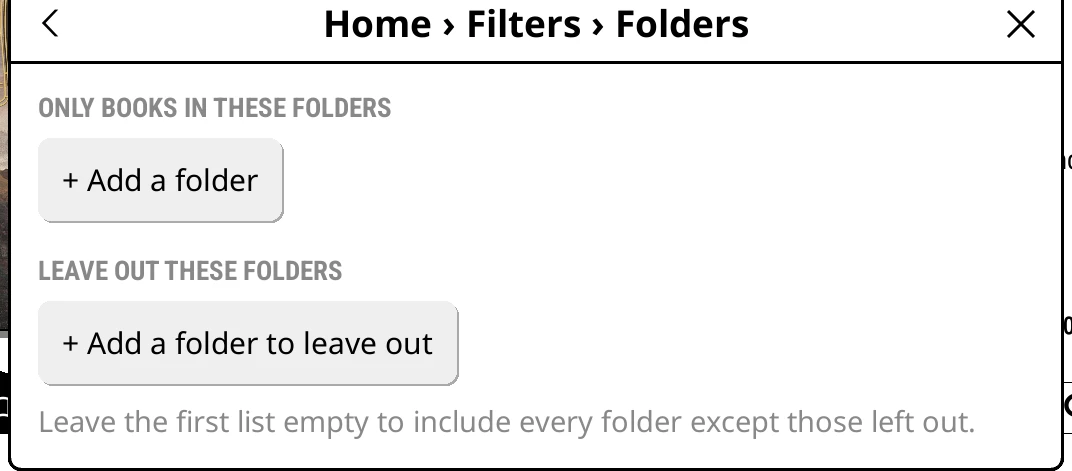
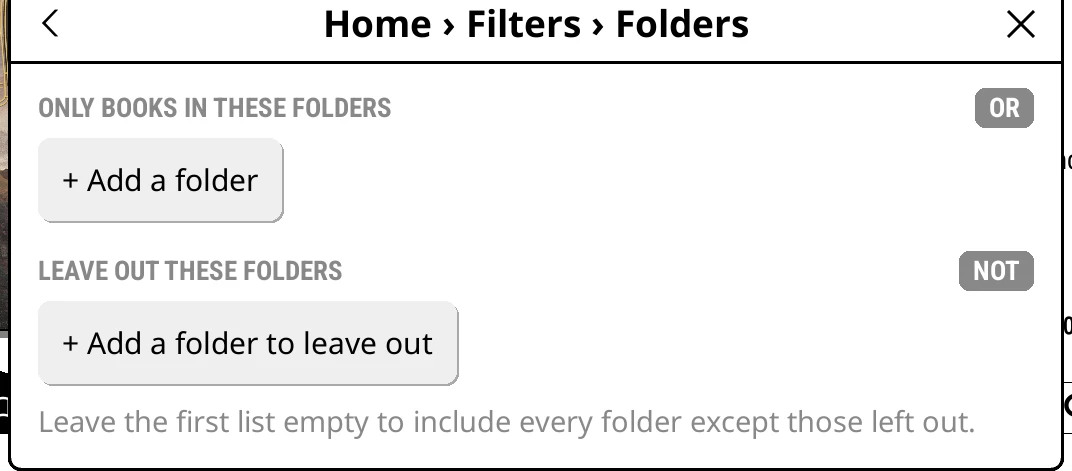
6.1: filter lists tagged OR, AND and NOT; picks as tags
Claude-Session: https://claude.ai/code/session_01JgJkg2kpmXwo4V6m4aKBga

Changed region(s): [[0.8927, 0.1783, 0.9851, 0.2972], [0.8927, 0.535, 0.9851, 0.6242]]

diff --git a/docs/reference/menus.md b/docs/reference/menus.md
@@ -715,16 +715,16 @@ Catalogue picker
 :   A page of choices to tick, any of which a book can match: **Unread**, **Reading**, **On hold**, **Finished** for Status; **5 stars** to **1 star**, or **Unrated**, for Rating; the values in your library for the others, searchable, with the **A-Z** / **Most books** switch. **Clear** on the strip unticks them all; **Apply** in the footer (or the back chevron) keeps them and goes back.
 
 **Genre**
-:   Three lists: **Any of these genres**, **All of these genres** and **Leave out these genres**, each with **+ Add genres**, which opens the same tick page for that list. A book needs one genre from the first list, every genre in the second and none from the third. An empty list is ignored.
+:   Three lists, tagged **OR**, **AND** and **NOT**: **Any of these genres**, **All of these genres** and **Leave out these genres**, each with **+ Add genres**, which opens the same tick page for that list. Picks show as tags; tap one to remove it. A book needs one genre from the first list, every genre in the second and none from the third. An empty list is ignored.
 
 **Collection**
-:   Two lists: **In any of these collections** and **Leave out these collections**, each with **+ Add collections**.
+:   Two lists, tagged **OR** and **NOT**: **In any of these collections** and **Leave out these collections**, each with **+ Add collections**. Picks show as tags; tap one to remove it.
 
 **Series**
 :   **Standalone and books in series**, **Only standalone books** or **Only books in series**.
 
 **Folders**
-:   **Only books in these folders** (**+ Add a folder**) and **Leave out these folders** (**+ Add a folder to leave out**). Both pick from Bookshelf's own folder list, with **Browse device…** for any other folder. Each folder has a cross to remove it. Both cover sub-folders. Leave the first list empty to include every folder except those left out.
+:   **Only books in these folders** (**OR**, with **+ Add a folder**) and **Leave out these folders** (**NOT**, with **+ Add a folder to leave out**). Both pick from Bookshelf's own folder list, with **Browse device…** for any other folder. Each folder has a cross to remove it. Both cover sub-folders. Leave the first list empty to include every folder except those left out.
 
 ### Sort
 

diff --git a/docs/organise/sources-filters.md b/docs/organise/sources-filters.md
@@ -83,7 +83,7 @@ Pages you tick have **Clear** at the top and **Apply** at the bottom. Each choic
 
 <div class="shots" markdown>
 
-!shot filter-genre | Genre filter, with book counts
+!shot filter-genre | Genre filter, with two genres picked
 
 !shot filter-status | Reading status filter
 
@@ -91,19 +91,19 @@ Pages you tick have **Clear** at the top and **Apply** at the bottom. Each choic
 
 ### Genre and Collection
 
-**Genre** opens a page of three lists, each with **+ Add genres**:
+**Genre** opens a page of three lists, each with **+ Add genres**. A tag beside each heading says how its list works:
 
-- **Any of these genres**: a book needs at least one of them.
-- **All of these genres**: a book needs every one. Science fiction and humour, say.
-- **Leave out these genres**: a book with any of them is dropped.
+- **Any of these genres** (**OR**): a book needs at least one of them.
+- **All of these genres** (**AND**): a book needs every one. Science fiction and humour, say.
+- **Leave out these genres** (**NOT**): a book with any of them is dropped.
 
-**Collection** works the same way with two lists: **In any of these collections** and **Leave out these collections**.
+**Collection** works the same way with two lists: **In any of these collections** (**OR**) and **Leave out these collections** (**NOT**).
 
-An empty list is ignored, and the cross on a pick removes it.
+Your picks show as tags under each heading; tap one to remove it. An empty list is ignored.
 
 ### Folders
 
-**Folders** has two lists: **Only books in these folders** (**+ Add a folder**) and **Leave out these folders** (**+ Add a folder to leave out**). Each opens Bookshelf's own list of folders, with a search box; **Browse device…** reaches a folder outside it. Leave the first list empty to keep every folder except those left out.
+**Folders** has two lists: **Only books in these folders** (**OR**, with **+ Add a folder**) and **Leave out these folders** (**NOT**, with **+ Add a folder to leave out**). Each opens Bookshelf's own list of folders, with a search box; **Browse device…** reaches a folder outside it. Leave the first list empty to keep every folder except those left out.
 
 <div class="shots" markdown>
 

diff --git a/docs/reference/whats-new.md b/docs/reference/whats-new.md
@@ -17,7 +17,7 @@ Full release notes for every version are on [GitHub Releases](https://github.com
 :   **Shelf order…** in the shelf editor lists every shelf at that level to move up or down, with a pencil to open any of them. [More](../organise/shelves.md#change-the-order-of-the-tabs)
 
 **More from filters**
-:   **Genre** has three lists: any of these, all of these, and genres to leave out. **Collection** can leave one out too, and **Folders** are picked from Bookshelf's own folder list. Author, series and filter lists sort **A-Z** or by **Most books**. [More](../organise/sources-filters.md#genre-and-collection)
+:   **Genre** has three lists, tagged **OR**, **AND** and **NOT**: any of these, all of these, and genres to leave out. Picks show as tags you tap to remove. **Collection** can leave one out too, and **Folders** are picked from Bookshelf's own folder list. Author, series and filter lists sort **A-Z** or by **Most books**. [More](../organise/sources-filters.md#genre-and-collection)
 
 **Sort the Theme library**
 :   **A-Z**, **Newest** or **Last used**. [More](../customise/themes.md#choose-a-theme)
